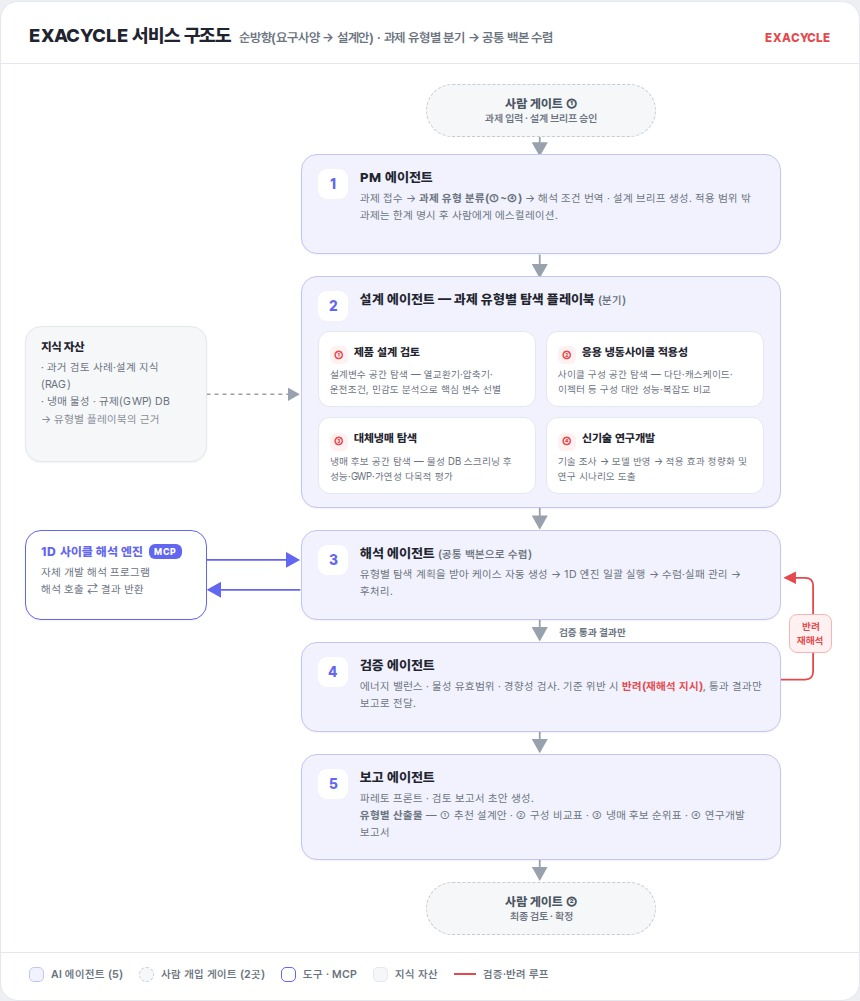
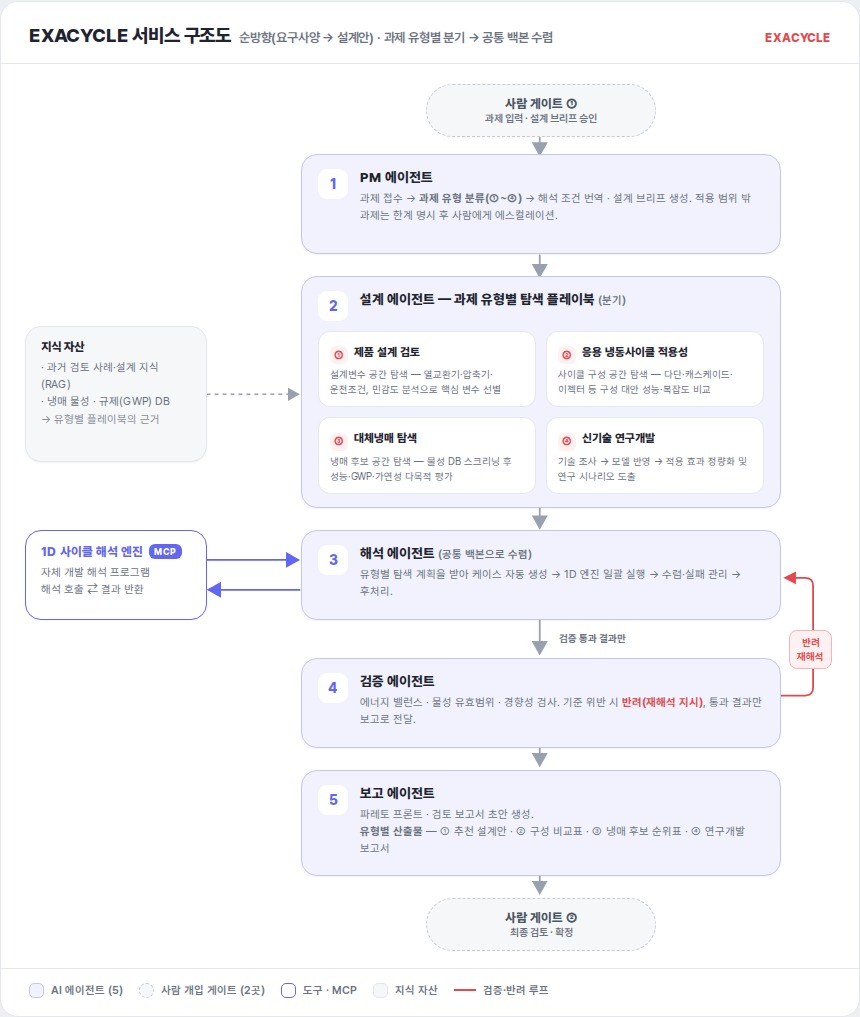
구조도(제출 규격) 해석-검증 구간 간격 확대 — '검증 통과 결과만' 라벨·반려 칩 여백 확보

diff --git a/diagrams/expert/AX_구조도.html b/diagrams/expert/AX_구조도.html
@@ -83,8 +83,8 @@
     <div class="team">EXACYCLE</div>
   </div>
 
-  <div class="stage" style="height:888px">
-    <svg class="wires" viewBox="0 0 860 888">
+  <div class="stage" style="height:904px">
+    <svg class="wires" viewBox="0 0 860 904">
       <defs>
         <marker id="g" markerWidth="9" markerHeight="9" refX="7" refY="4.5" orient="auto"><path d="M0,0 L8,4.5 L0,9 Z" fill="#9AA1AE"/></marker>
         <marker id="r" markerWidth="8" markerHeight="8" refX="6" refY="4" orient="auto"><path d="M0,0.5 L7,4 L0,7.5 Z" fill="#E5484D"/></marker>
@@ -94,16 +94,16 @@
       <line x1="540" y1="68" x2="540" y2="90" stroke="#9AA1AE" stroke-width="1.8" marker-end="url(#g)"/>
       <line x1="540" y1="190" x2="540" y2="212" stroke="#9AA1AE" stroke-width="1.8" marker-end="url(#g)"/>
       <line x1="540" y1="444" x2="540" y2="464" stroke="#9AA1AE" stroke-width="1.8" marker-end="url(#g)"/>
-      <line x1="540" y1="556" x2="540" y2="576" stroke="#9AA1AE" stroke-width="1.8" marker-end="url(#g)"/>
-      <line x1="540" y1="668" x2="540" y2="688" stroke="#9AA1AE" stroke-width="1.8" marker-end="url(#g)"/>
-      <line x1="540" y1="796" x2="540" y2="816" stroke="#9AA1AE" stroke-width="1.8" marker-end="url(#g)"/>
+      <line x1="540" y1="556" x2="540" y2="590" stroke="#9AA1AE" stroke-width="1.8" marker-end="url(#g)"/>
+      <line x1="540" y1="684" x2="540" y2="702" stroke="#9AA1AE" stroke-width="1.8" marker-end="url(#g)"/>
+      <line x1="540" y1="812" x2="540" y2="830" stroke="#9AA1AE" stroke-width="1.8" marker-end="url(#g)"/>
       <!-- 지식 자산 → 설계 (점선) -->
       <line x1="206" y1="330" x2="298" y2="330" stroke="#9AA1AE" stroke-width="1.5" stroke-dasharray="4 4" marker-end="url(#g)"/>
       <!-- 1D 엔진 ↔ 해석 (인디고 왕복) -->
       <line x1="206" y1="496" x2="298" y2="496" stroke="#6366F1" stroke-width="1.8" marker-end="url(#i)"/>
       <line x1="300" y1="526" x2="208" y2="526" stroke="#6366F1" stroke-width="1.8" marker-end="url(#i)"/>
       <!-- ★ 반려 루프: 검증 → 해석 (레드 엘보) -->
-      <path d="M 780,616 L 806,616 Q 814,616 814,608 L 814,522 Q 814,514 806,514 L 786,514" stroke="#E5484D" stroke-width="1.8" fill="none" marker-end="url(#r)"/>
+      <path d="M 780,632 L 806,632 Q 814,632 814,624 L 814,522 Q 814,514 806,514 L 786,514" stroke="#E5484D" stroke-width="1.8" fill="none" marker-end="url(#r)"/>
     </svg>
 
     <!-- 사람 게이트 ① -->
@@ -144,7 +144,7 @@
     </div>
 
     <!-- 4 검증 -->
-    <div class="card agent" style="left:300px;top:578px;width:480px;height:90px">
+    <div class="card agent" style="left:300px;top:594px;width:480px;height:90px">
       <div class="badge">4</div>
       <div class="body">
         <div class="nm">검증 에이전트</div>
@@ -153,7 +153,7 @@
     </div>
 
     <!-- 5 보고 -->
-    <div class="card agent" style="left:300px;top:690px;width:480px;height:106px">
+    <div class="card agent" style="left:300px;top:706px;width:480px;height:106px">
       <div class="badge">5</div>
       <div class="body">
         <div class="nm">보고 에이전트</div>
@@ -162,7 +162,7 @@
     </div>
 
     <!-- 사람 게이트 ② -->
-    <div class="pill" style="left:425px;top:818px;width:230px">사람 게이트 ② <small>최종 검토 · 확정</small></div>
+    <div class="pill" style="left:425px;top:834px;width:230px">사람 게이트 ② <small>최종 검토 · 확정</small></div>
 
     <!-- 좌측 레일: 지식 자산 -->
     <div class="card datac" style="left:24px;top:262px;width:182px;height:136px;display:block;padding:13px 15px">
@@ -177,8 +177,8 @@
     </div>
 
     <!-- 라벨 -->
-    <div class="lbl" style="left:552px;top:560px">검증 통과 결과만</div>
-    <div class="lbl red" style="left:788px;top:550px;text-align:center;background:var(--red-soft);border:1px solid var(--red-bd);padding:4px 7px;border-radius:8px">반려<br>재해석</div>
+    <div class="lbl" style="left:552px;top:566px">검증 통과 결과만</div>
+    <div class="lbl red" style="left:788px;top:566px;text-align:center;background:var(--red-soft);border:1px solid var(--red-bd);padding:4px 7px;border-radius:8px">반려<br>재해석</div>
   </div>
 
   <div class="legend">

diff --git a/tools/make_svg.py b/tools/make_svg.py
@@ -66,22 +66,22 @@ def chip(x,y,text,w=None,fg="#4B5563",bg="#fff",bd=BD,size=10.5):
     return rect(x,y,w,24,bg,bd,rx=12,sw=1)+txt(x+w/2,y+16,text,size,700,fg,anchor="middle"), w
 
 # ================= C1 : EXACYCLE =================
-OY=72; W=860; H1=OY+888+50
+OY=72; W=860; H1=OY+904+50
 c1=[f'<svg xmlns="http://www.w3.org/2000/svg" width="{W}" height="{H1}" viewBox="0 0 {W} {H1}" font-family="{FONT}">',
     DEFS, rect(0.75,0.75,W-1.5,H1-1.5,"#fff",BD,rx=18),
     header("EXACYCLE 서비스 구조도","순방향(요구사양 → 설계안) · 과제 유형별 분기 → 공통 백본 수렴","EXACYCLE")]
 def Y(y): return y+OY
 
 # 스파인·연결선
-for (y1,y2) in [(68,90),(190,212),(444,464),(556,576),(668,688),(796,816)]:
+for (y1,y2) in [(68,90),(190,212),(444,464),(556,590),(684,702),(812,830)]:
     c1.append(arrow(540,Y(y1),540,Y(y2)))
 c1.append(arrow(206,Y(330),298,Y(330),dash="4 4",sw=1.5))
 c1.append(arrow(206,Y(496),298,Y(496),color=IND,marker="m-ind"))
 c1.append(arrow(300,Y(526),208,Y(526),color=IND,marker="m-ind"))
-c1.append(f'<path d="M 780,{Y(616)} L 806,{Y(616)} Q 814,{Y(616)} 814,{Y(608)} L 814,{Y(522)} Q 814,{Y(514)} 806,{Y(514)} L 786,{Y(514)}" stroke="{RED}" stroke-width="1.8" fill="none" marker-end="url(#m-red)"/>')
+c1.append(f'<path d="M 780,{Y(632)} L 806,{Y(632)} Q 814,{Y(632)} 814,{Y(624)} L 814,{Y(522)} Q 814,{Y(514)} 806,{Y(514)} L 786,{Y(514)}" stroke="{RED}" stroke-width="1.8" fill="none" marker-end="url(#m-red)"/>')
 
 # 게이트 ①/②
-for (gy,no,sm) in [(20,"①","과제 입력 · 설계 브리프 승인"),(818,"②","최종 검토 · 확정")]:
+for (gy,no,sm) in [(20,"①","과제 입력 · 설계 브리프 승인"),(834,"②","최종 검토 · 확정")]:
     c1.append(rect(425,Y(gy),230,46,GR_S,GR_B,rx=23,dash="4 4"))
     c1.append(txt(540,Y(gy)+20,f"사람 게이트 {no}",12.5,800,"#4B5563",anchor="middle"))
     c1.append(txt(540,Y(gy)+36,sm,10.5,600,SUB,anchor="middle"))
@@ -117,13 +117,13 @@ for i,(no,mn,md) in enumerate(minis):
 
 agent_card(466,90,"3","해석 에이전트","(공통 백본으로 수렴)",
   ["유형별 탐색 계획을 받아 케이스 자동 생성 → 1D 엔진 일괄 실행 → 수렴·실패 관리","→ 후처리."],518)
-agent_card(578,90,"4","검증 에이전트",None,
+agent_card(594,90,"4","검증 에이전트",None,
   [[("에너지 밸런스 · 물성 유효범위 · 경향성 검사. 기준 위반 시 ",500,SUB),("반려(재해석 지시),",800,RED)],
-   "통과 결과만 보고로 전달."],630)
-agent_card(690,106,"5","보고 에이전트",None,
+   "통과 결과만 보고로 전달."],646)
+agent_card(706,106,"5","보고 에이전트",None,
   ["파레토 프론트 · 검토 보고서 초안 생성.",
    [("유형별 산출물",800,INK),(" — ① 추천 설계안 · ② 구성 비교표 · ③ 냉매 후보 순위표 · ④ 연구개발",500,SUB)],
-   "보고서"],742)
+   "보고서"],758)
 
 # 좌측 레일
 c1.append(rect(24,Y(262),182,136,GR_S,BD))
@@ -135,15 +135,15 @@ c1.append(rect(160,Y(477),34,15,IND,"none",rx=6,sw=0)); c1.append(txt(177,Y(488)
 c1.append(lines(39,Y(510),["자체 개발 해석 프로그램","해석 호출 ⇄ 결과 반환"],lh=17))
 
 # 라벨
-c1.append(rect(548,Y(552),108,18,"#fff","none",rx=6,sw=0))
-c1.append(txt(552,Y(565),"검증 통과 결과만",10,700,SUB))
-c1.append(rect(786,Y(550),56,36,RED_S,RED_B,rx=8,sw=1))
-c1.append(txt(814,Y(564),"반려",10,700,RED,anchor="middle"))
-c1.append(txt(814,Y(578),"재해석",10,700,RED,anchor="middle"))
+c1.append(rect(548,Y(566),108,18,"#fff","none",rx=6,sw=0))
+c1.append(txt(552,Y(579),"검증 통과 결과만",10,700,SUB))
+c1.append(rect(786,Y(566),56,36,RED_S,RED_B,rx=8,sw=1))
+c1.append(txt(814,Y(580),"반려",10,700,RED,anchor="middle"))
+c1.append(txt(814,Y(594),"재해석",10,700,RED,anchor="middle"))
 
 # 범례
-c1.append(f'<line x1="0" y1="{OY+888}" x2="{W}" y2="{OY+888}" stroke="{BD}" stroke-width="1"/>')
-c1.append(legend([("a","AI 에이전트 (5)"),("h","사람 개입 게이트 (2곳)"),("t","도구 · MCP"),("k","지식 자산"),("loop","검증·반려 루프")],OY+888+31))
+c1.append(f'<line x1="0" y1="{OY+904}" x2="{W}" y2="{OY+904}" stroke="{BD}" stroke-width="1"/>')
+c1.append(legend([("a","AI 에이전트 (5)"),("h","사람 개입 게이트 (2곳)"),("t","도구 · MCP"),("k","지식 자산"),("loop","검증·반려 루프")],OY+904+31))
 c1.append('</svg>')
 open('EXACYCLE_구조도.svg','w',encoding='utf-8').write(''.join(c1))
 
